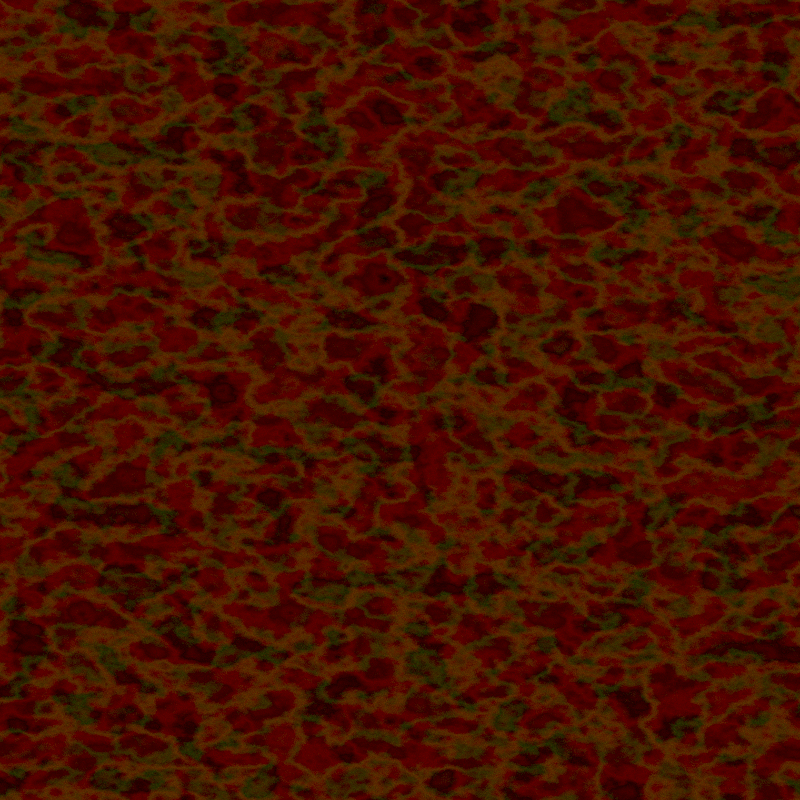
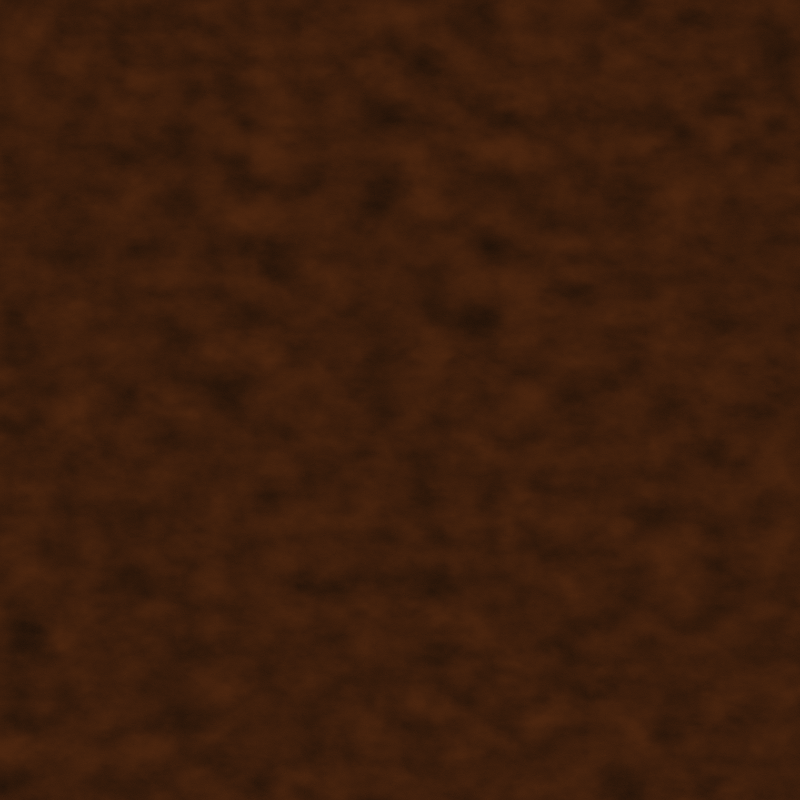
Szperacz: tekstura rdzy w brązach (216.1), większe kropki PIN

diff --git a/flutter/lib/desktop/pages/szperacz.dart b/flutter/lib/desktop/pages/szperacz.dart
@@ -1182,15 +1182,15 @@ class _SzperaczWyborState extends State<SzperaczWybor> {
                     controller: _kontroler,
                     autofocus: true,
                     obscureText: true,
-                    obscuringCharacter: '•',
+                    obscuringCharacter: '●',
                     readOnly: _czekam,
                     onSubmitted: (_) => _wejdz(),
                     style: const TextStyle(
                         fontFamily: 'SzperaczMono',
                         fontWeight: FontWeight.w700,
-                        fontSize: 18,
-                        letterSpacing: 5,
-                        color: _K.tusz,
+                        fontSize: 22,
+                        letterSpacing: 6,
+                        color: Color(0xFFC02C2C),
                         shadows: []),
                     cursorColor: _K.tusz,
                     decoration: const InputDecoration(
